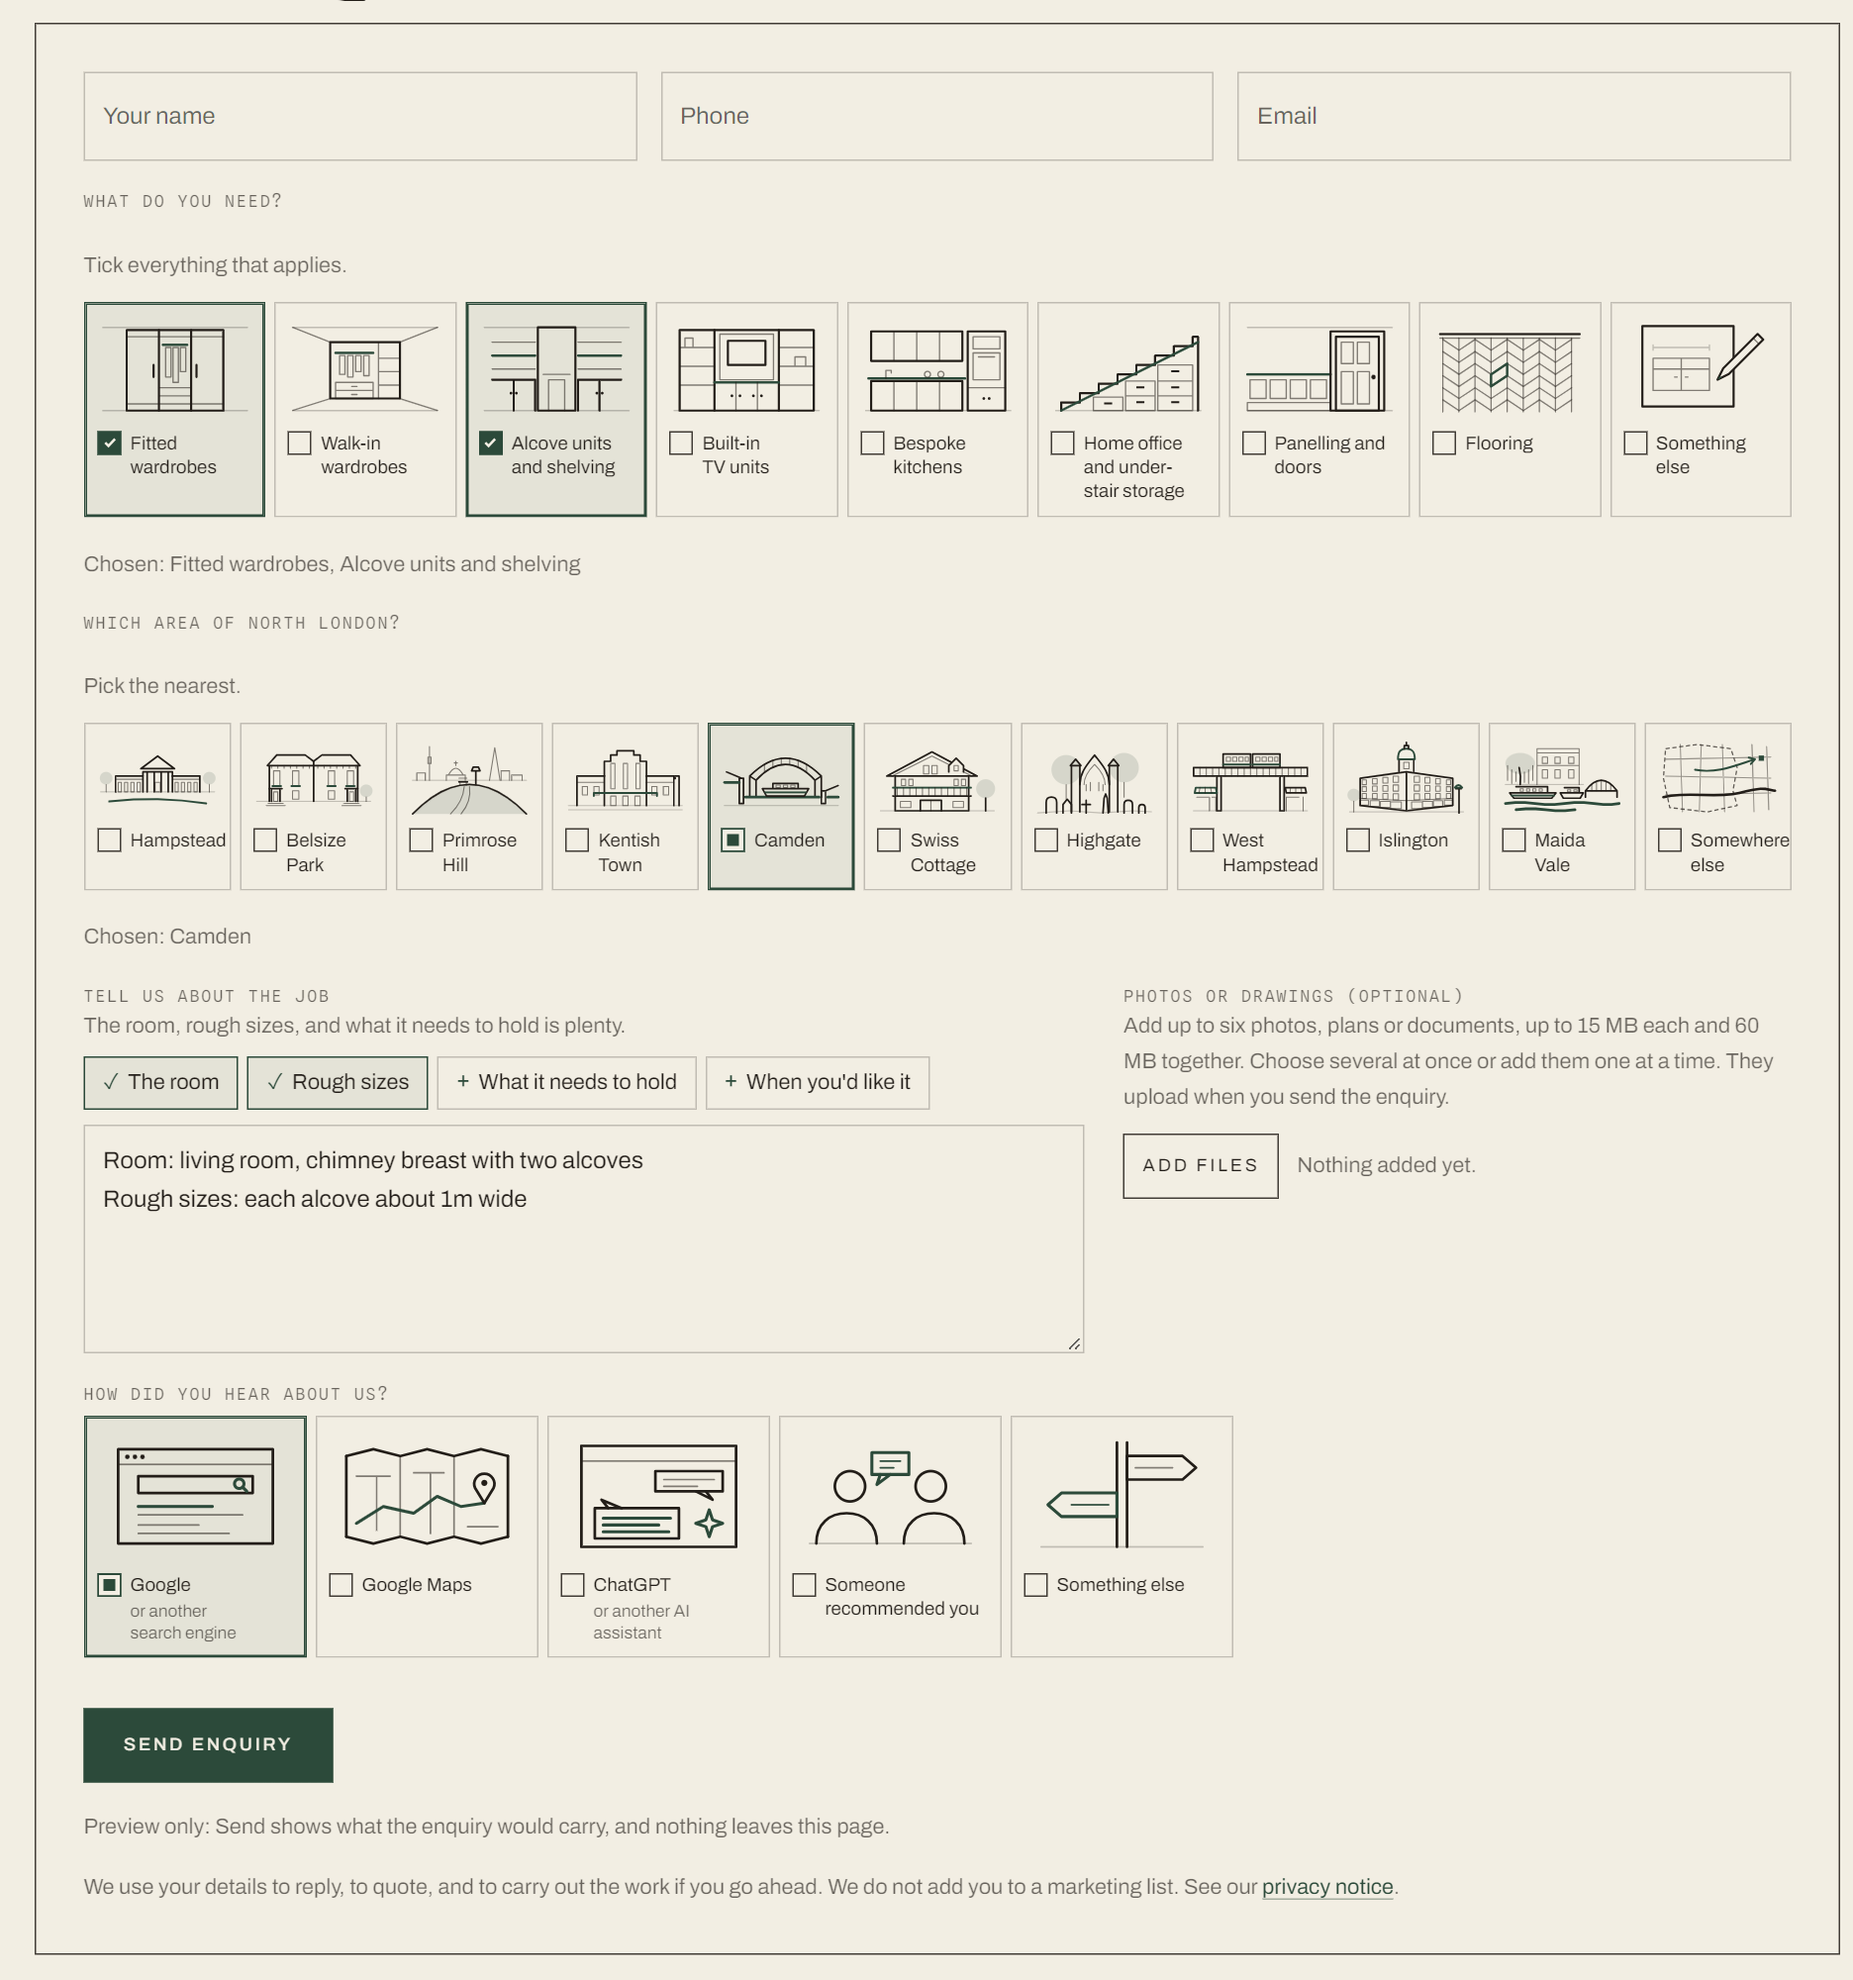
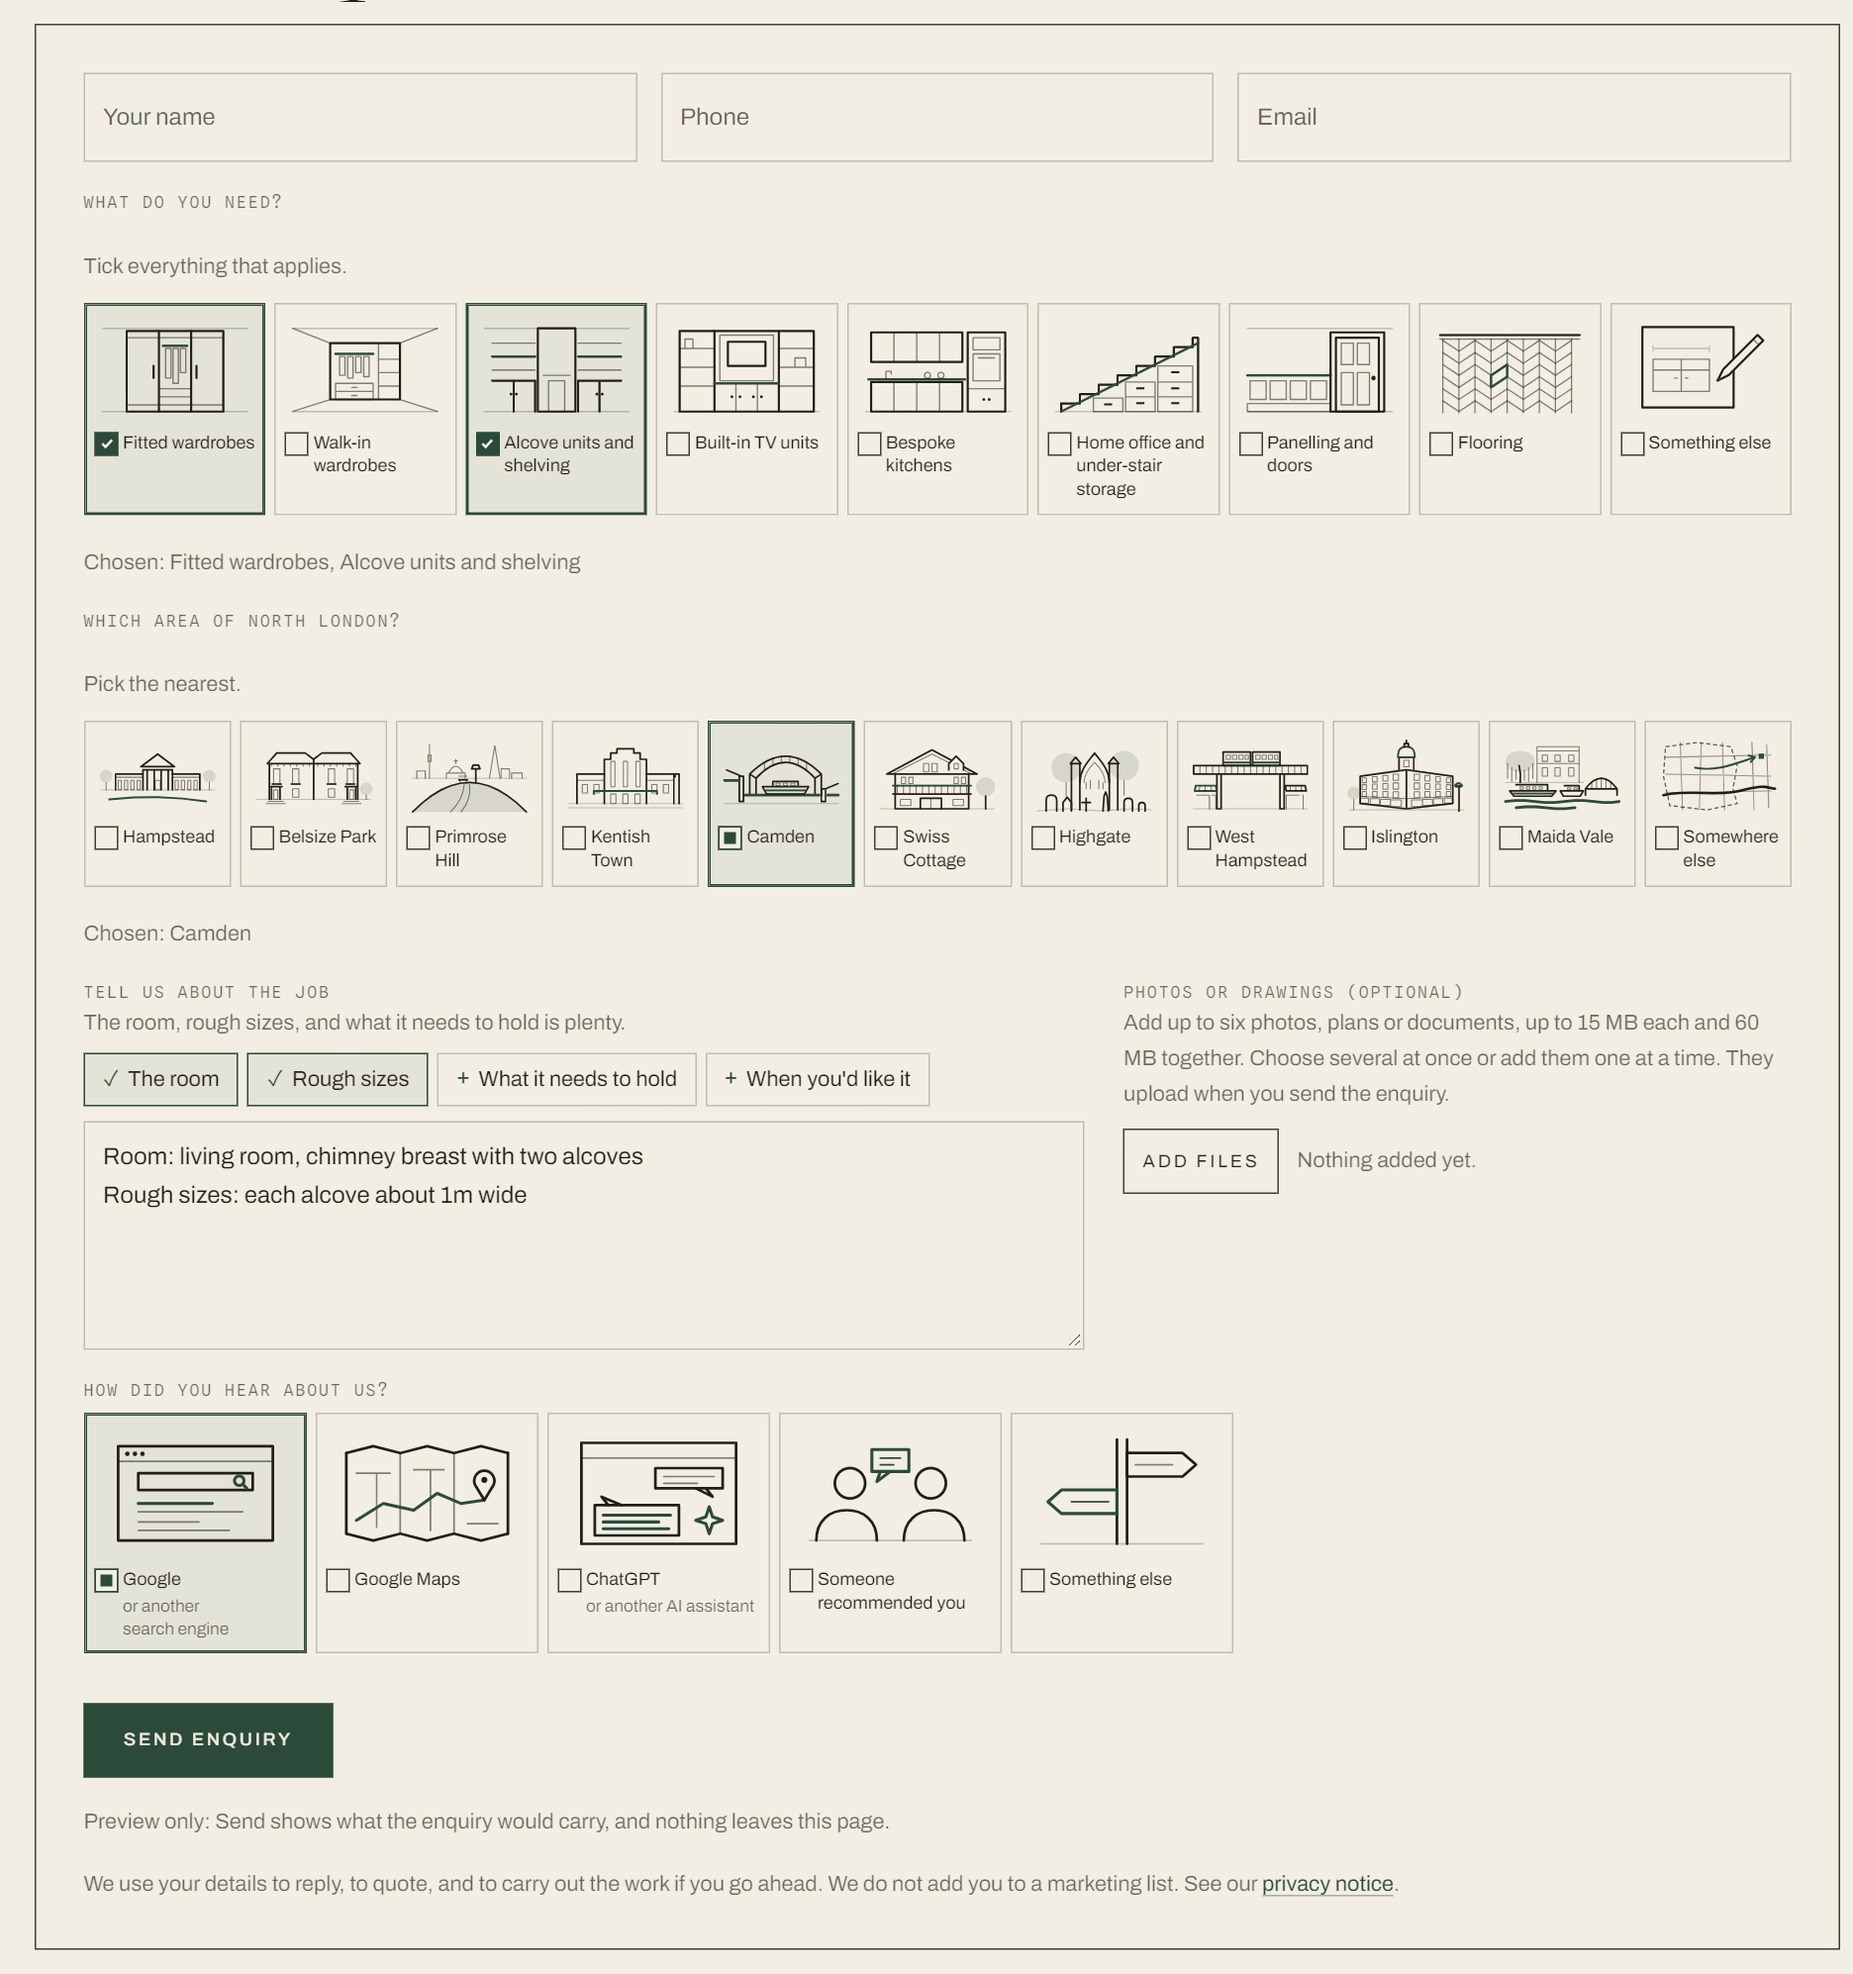
Enquiry form previews: card names fit inside their cards on phones and laptops (a founder, 14 Nov)
On a phone "Hampstead", "West Hampstead" and "Somewhere else" spilled out
of their cards (measured at 375px: 3 to 6px over; "Someone recommended
you" 22px over). Phones: cards a little over two per screen (2.1, was
2.3), under 360px a little under two, a 13px label and a 16px tick.
Wide form: 98px minimum cards, 12px labels with a 3px gap, so all eleven
areas still fit in one row at 1440px. A hyphen or a break is only a
safety net now: no name spills or splits from 320 to 414px wide or at
1280 and 1440, in either option.

diff --git a/src/components/enquiry-cards/enquiry-cards.css b/src/components/enquiry-cards/enquiry-cards.css
@@ -208,7 +208,19 @@ form.ecf button.ec-arrow[aria-disabled="true"] { opacity: 0.32; cursor: default;
   text-transform: none;
   color: var(--char);
 }
-.ec-text { min-width: 0; }
+/* A long word ("Hampstead", "recommended") never leaves its card: it is
+   hyphenated (the page is lang="en-GB"), or broken as a last resort on the
+   narrowest phones. A founder saw three area names spill out on a phone,
+   14 Nov 2026; the phone sizes below are what fixed it. */
+.ec-text { min-width: 0; overflow-wrap: break-word; hyphens: auto; }
+
+/* Phones: a smaller label and tick, so the names fit cards that show a
+   little over two at a time. Measured from 360 to 414px wide. */
+@media (max-width: 640px) {
+  .ec-label { gap: var(--space-3); padding: var(--space-4) var(--space-4) var(--space-5); font-size: 13px; }
+  .ec-input { width: 16px; height: 16px; }
+  .ec-input[type="checkbox"]:checked { background-size: 11px; }
+}
 .ec-sub { display: block; margin-top: 2px; font-size: var(--type-note); color: var(--ink-soft); }
 
 /* The real input, drawn square to match the brand, at the start of the
@@ -272,7 +284,7 @@ html.js .ec-group[data-layout="row"] .ec-cards {
 }
 @media (max-width: 640px) {
   html.js .ec-group[data-layout="row"] .ec-cards {
-    grid-auto-columns: calc((100% - 2 * var(--space-5)) / 2.3);
+    grid-auto-columns: calc((100% - 2 * var(--space-5)) / 2.1);
   }
   html.js .ec-group[data-layout="grid"] .ec-cards {
     grid-template-columns: none;
@@ -289,6 +301,12 @@ html.js .ec-group[data-layout="row"] .ec-cards {
     scrollbar-color: var(--hair-strong) transparent;
   }
 }
+/* The smallest phones (320px): a little under two cards at a time, so long
+   words such as "wardrobes" fit whole rather than hyphenated. */
+@media (max-width: 359px) {
+  html.js .ec-group[data-layout="row"] .ec-cards { grid-auto-columns: calc((100% - var(--space-5)) / 1.85); }
+  html.js .ec-group[data-layout="grid"] .ec-cards { grid-auto-columns: calc((100% - var(--space-5)) / 1.9); }
+}
 @media (prefers-reduced-motion: reduce) {
   .ec-cards { scroll-behavior: auto; }
 }
@@ -298,7 +316,7 @@ html.js .ec-group[data-layout="row"] .ec-cards {
    across it, so the service and area cards sit side by side and show at
    once, scrolling only when a row cannot fit. Sized from the form's own
    width (a container query), so the pop-up, which is narrower, keeps the
-   rows and grids above. Each row shares the width: a card is 96 to 150px
+   rows and grids above. Each row shares the width: a card is 98 to 150px
    wide, so nine services fit on any laptop and the eleven areas fit from
    about 1,300px wide; below that their row scrolls, with its arrows. */
 @container ecf (min-width: 860px) {
@@ -308,7 +326,7 @@ html.js .ec-group[data-layout="row"] .ec-cards {
     grid-template-columns: none;
     grid-template-rows: none;
     grid-auto-flow: column;
-    grid-auto-columns: minmax(96px, 150px);
+    grid-auto-columns: minmax(98px, 150px);
     justify-content: start;
     overflow-x: auto;
     overscroll-behavior-x: contain;
@@ -320,7 +338,7 @@ html.js .ec-group[data-layout="row"] .ec-cards {
     scrollbar-color: var(--hair-strong) transparent;
   }
   .ec-art { padding: var(--space-4) var(--space-3) 0; }
-  .ec-label { gap: var(--space-3); padding: var(--space-3) var(--space-4) var(--space-4); font-size: 12.5px; hyphens: auto; }
+  .ec-label { gap: 3px; padding: var(--space-3) var(--space-3) var(--space-4); font-size: 12px; }
   .ec-input { width: 16px; height: 16px; }
   .ec-input[type="checkbox"]:checked { background-size: 11px; }
 }
